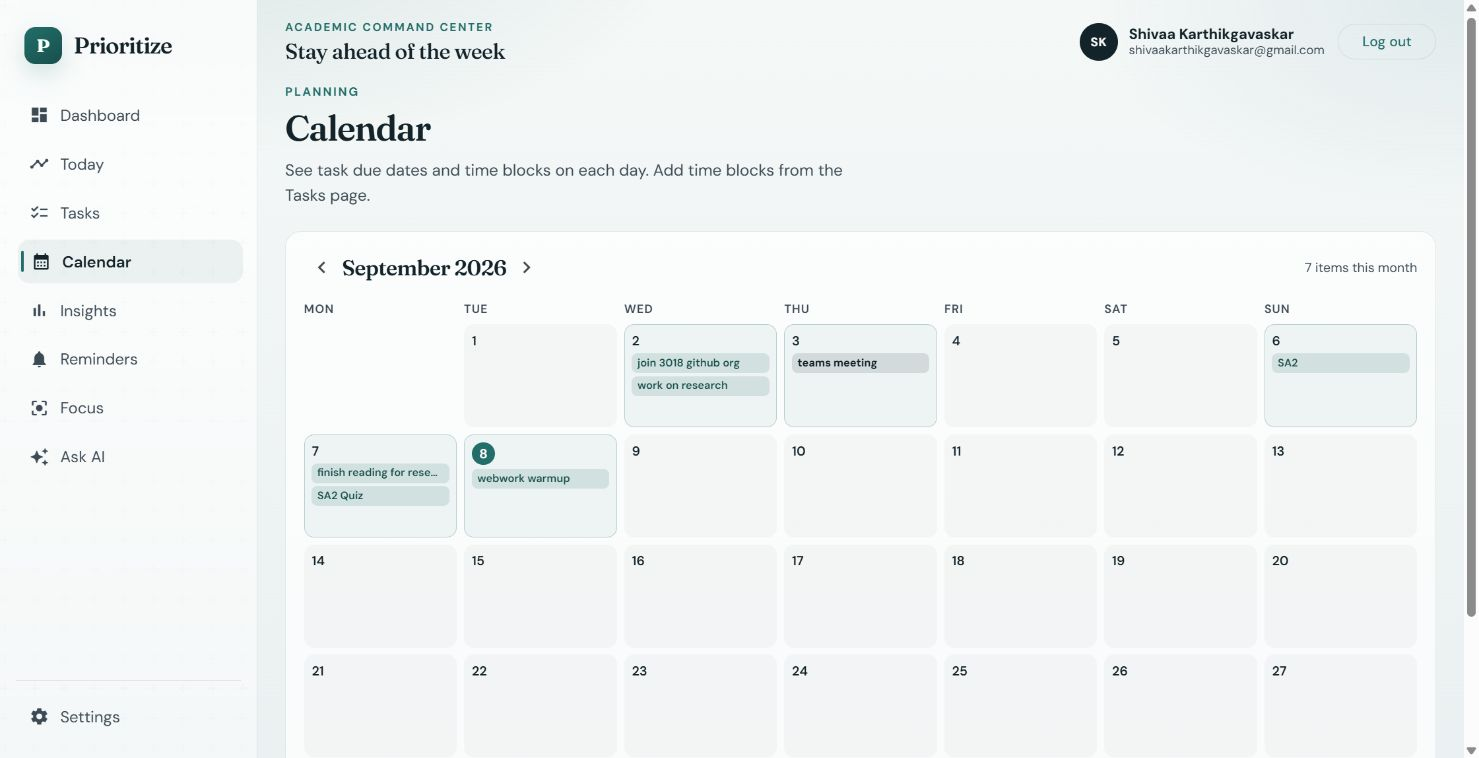
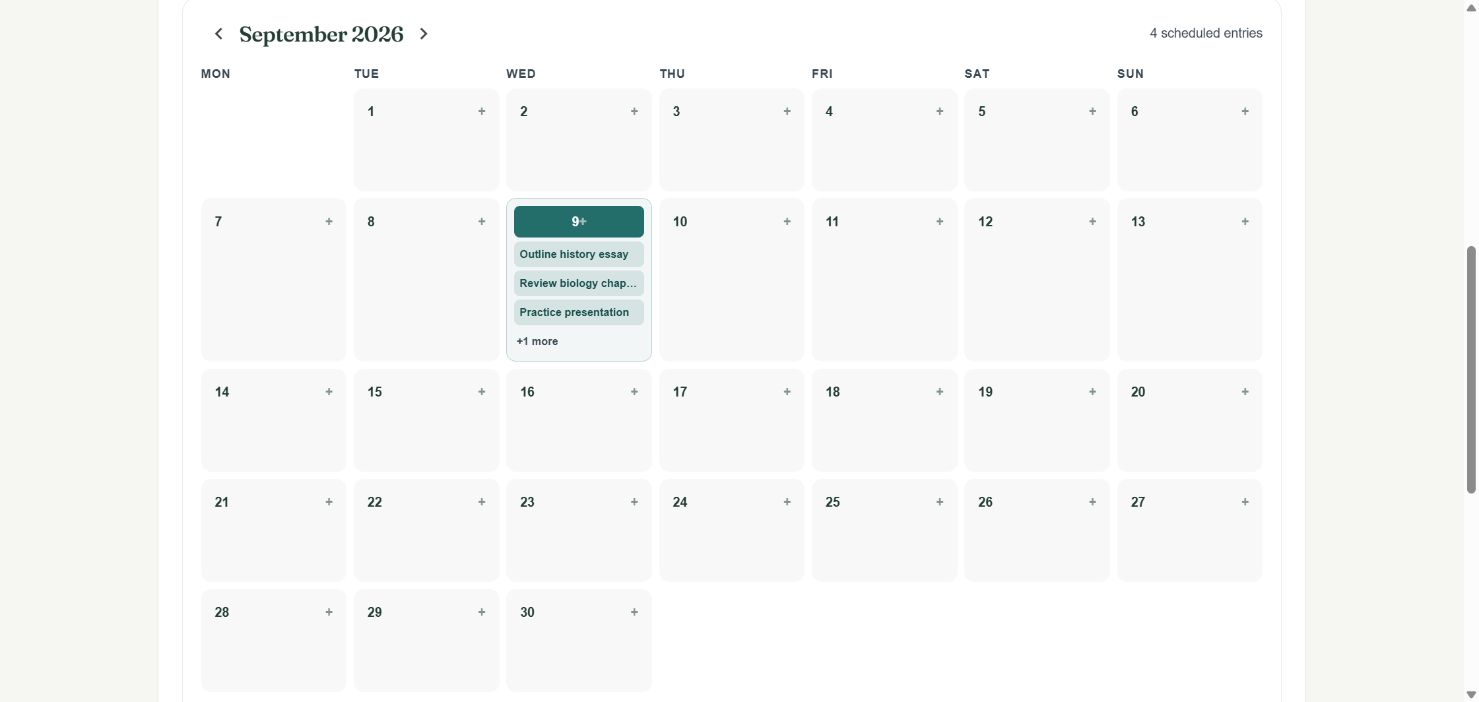
Refresh release screenshots and document verified AWS deployment

diff --git a/README.md b/README.md
@@ -6,7 +6,27 @@ Personal productivity and planning platform. Organize work as Goals → Projects
 
 **Live app:** [theprioritize.com](https://theprioritize.com/)
 
-Captured from the live app on September 8, 2026.
+**Try it without an account:** [interactive demo](https://theprioritize.com/demo) · **Current release:** [main branch](https://github.com/shivaak67/prioritize/tree/main)
+
+The landing page, dashboard, demo, and calendar captures were refreshed on September 9, 2026. The guided first-session capture uses a local fictional account; demo captures use fictional in-memory data. The existing tasks, Focus, and sign-in captures are from the live app on September 8, 2026.
+
+### Public overview
+
+Understand the app and explore it before signing in.
+
+![Prioritize public landing page](docs/screenshots/landing.png)
+
+### Interactive demo
+
+Try sample tasks, calendar edits, and a Focus timer without creating an account. Changes reset when you leave or reload the demo.
+
+![Prioritize interactive demo with fictional sample tasks](docs/screenshots/demo.png)
+
+### Guided first session
+
+Create a task, reserve time, and start Focus with that task selected. Progress preferences are saved per account in the current browser.
+
+![Prioritize first-session guide using a fictional local account](docs/screenshots/onboarding.png)
 
 ### Dashboard
 
@@ -22,9 +42,11 @@ Create tasks with due dates and priorities, reserve calendar time, and filter ex
 
 ### Calendar
 
-Review task deadlines and time blocks in a monthly view.
+Select a date to add a time block or select an existing task/event to edit it. This capture shows the public demo calendar with fictional data.
 
 ![Prioritize monthly calendar](docs/screenshots/calendar.png)
+
+![Prioritize selected-day task editor](docs/screenshots/calendar-edit.png)
 
 ### Focus timer
 
@@ -42,6 +64,9 @@ Prioritize helps you plan and execute work with a clear hierarchy: categories an
 ## Features
 
 - Email/password and Google OAuth authentication (JWT)
+- Public landing page and interactive demo with isolated fictional data
+- Guided first session: task → calendar time block → Focus
+- Calendar creation and editing with date validation and failed-save recovery
 - Categories, goals, projects, and tasks (manual priority)
 - Schedule blocks (time-blocking) and personal calendar events
 - Recurring routines and occurrences
@@ -73,7 +98,7 @@ See [docs/architecture.md](docs/architecture.md) for schema, auth flow, and phas
 | Auth | JWT + Google OAuth 2.0 / OIDC |
 | Analytics | Power BI |
 | DevOps | Docker, Docker Compose, GitHub Actions |
-| Cloud | AWS (S3 + CloudFront, compute, RDS) |
+| Cloud | AWS EC2 + EBS; PostgreSQL runs in Docker on EC2 |
 
 ## Project Structure
 
@@ -177,14 +202,20 @@ Stop with `Ctrl+C` or `docker compose down`. Add `-v` to also remove the databas
 
 ## CI/CD
 
-GitHub Actions builds and tests the backend (`./mvnw -B test`) and frontend (`npm ci` / `npm run build`) on pull requests and pushes to `main` and `develop`. A separate job builds Docker images for `backend` and `frontend` to catch Dockerfile regressions. Deployment workflows for AWS come after the MVP.
+GitHub Actions runs backend tests and the frontend production build on pull requests and pushes to `main` and `develop`. A separate job builds both Docker images to catch Dockerfile regressions. Pushes to `develop` that change application files also publish versioned images to GitHub Container Registry. Deployment selects a versioned image on the existing EC2 host.
+
+Frontend behavior tests run with `npm test -- --watch=false --browsers=ChromeHeadless` from `frontend/`. The September 9 release passed 24 frontend tests, the production build, and browser checks for onboarding, calendar edits, demo isolation, and mobile layout.
 
 ## Deployment (AWS)
 
-- Frontend: S3 + CloudFront
-- Backend: EC2 (or equivalent compute)
-- Database: Amazon RDS (PostgreSQL)
-- Secrets: environment variables / AWS Secrets Manager
+- Host: one AWS EC2 instance running Docker Compose
+- Frontend: Angular build served by nginx, with API/OAuth requests proxied to Spring Boot
+- Backend: Spring Boot container on the same EC2 host
+- Database: PostgreSQL 16 container with data on a mounted EBS volume
+- Releases: GitHub Actions → GHCR versioned images → EC2 deployment through AWS Systems Manager
+- Configuration: environment variables supplied on the server
+
+This is the live topology verified on September 9, 2026. EBS persistence is separate from backups; the single host remains a shared failure point. See `docker-compose.prod.yml` and `infra/` for deployment configuration.
 
 ## Analytics (Power BI)
 
